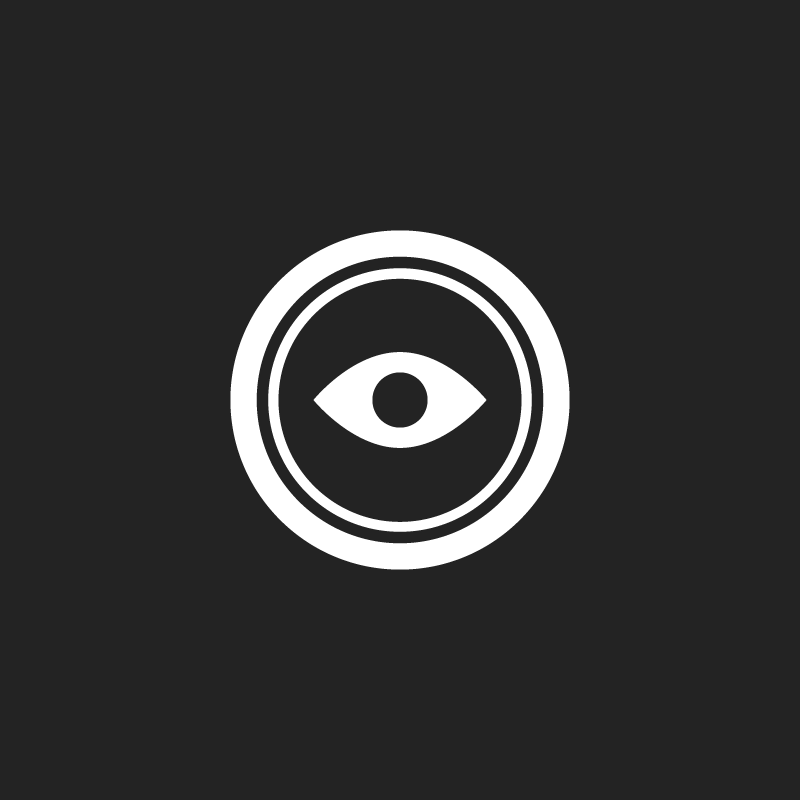
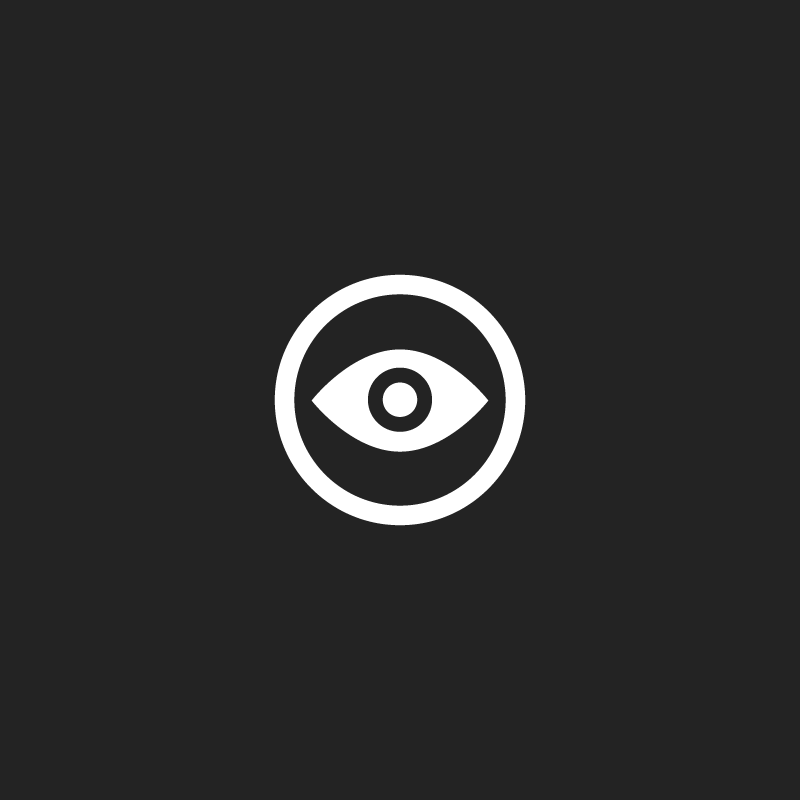
헤더 크기 조절

Changed region(s): [[0.2812, 0.2812, 0.7188, 0.7188], [0.4375, 0.4375, 0.5625, 0.5625]]

diff --git a/css/style.css b/css/style.css
@@ -50,7 +50,7 @@
 }
 
 .mobile-dropdown li {
-    padding: 20px;
+    padding: 16px;
     height: auto;
 }
 
@@ -289,7 +289,7 @@ ul {
     font-size: 20px;
     width: 50%;
     padding: 2rem 0rem;
-    color: #28ab8f;
+    color: #10a973;
 }
 
 .pagination-left {
@@ -792,7 +792,7 @@ h2 {
     .nav {
         position: fixed;
         left: 0;
-
+height:60px;
         text-align: left;
         box-shadow: none;
     }
